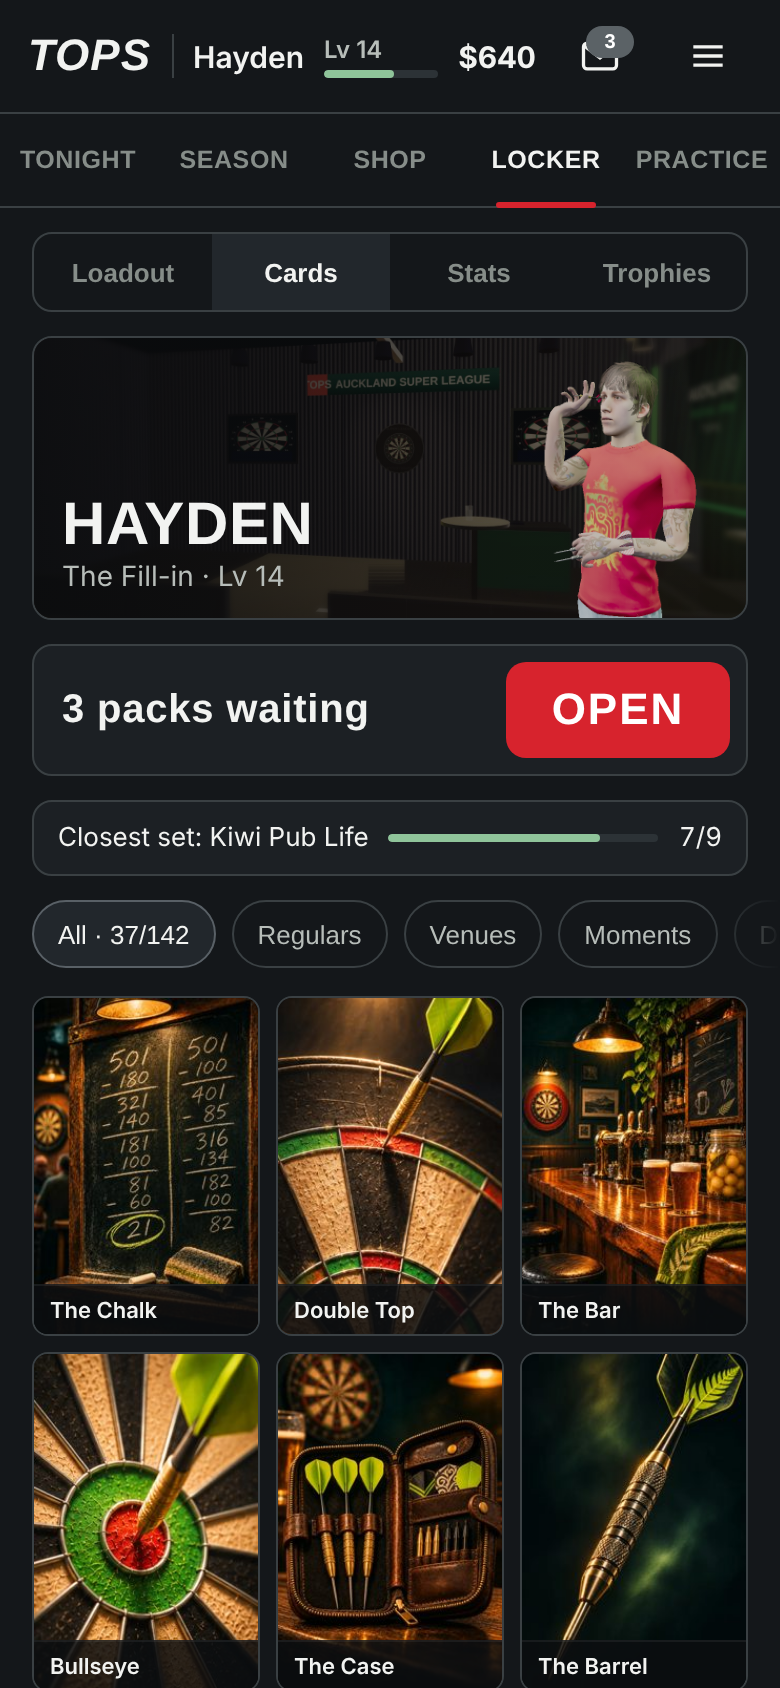
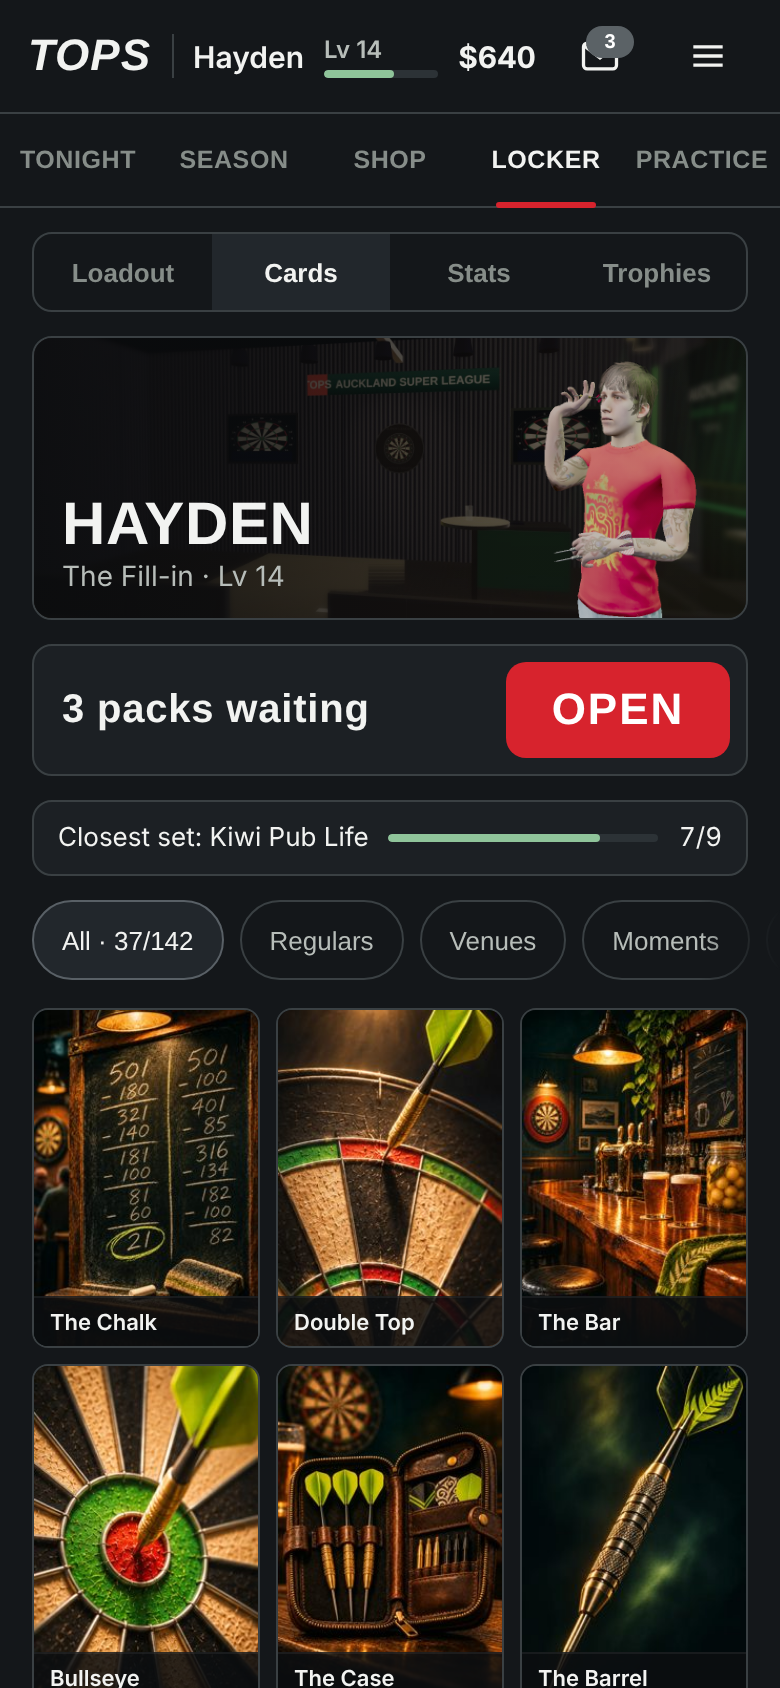
EXP-UX round 4: selected thumb always visible, every control answers (sub-tabs, menu, card filters), goal under tiles, 2px selected border, 40px chips
Claude-Session: https://claude.ai/code/session_01WmQEKYuzjKWgLqY2q8YZP3

Changed region(s): [[0.0308, 0.5237, 0.9538, 1.0]]

diff --git a/wip/ux/proto/index.html b/wip/ux/proto/index.html
@@ -82,7 +82,7 @@ button.panel{color:var(--ink);font:inherit}
 .thumbs::-webkit-scrollbar{display:none}
 .th{flex:0 0 calc((100% - 24px)/4);height:78px;scroll-snap-align:start;border:1px solid var(--line);border-radius:8px;background:var(--panel);display:grid;place-items:center;position:relative;cursor:pointer;padding:0;min-width:0}
 .th img{width:88%;height:44%;object-fit:contain;margin-bottom:16px}
-.th[aria-pressed="true"]{border-color:#fff}
+.th[aria-pressed="true"]{border:2px solid #fff;background:var(--panel2)}
 .th small{position:absolute;bottom:5px;left:0;right:0;font-size:12px;color:var(--ink2);text-align:center}
 .th.lock img{opacity:.35}
 .lockline{font-size:14px;color:var(--ink2);text-align:center;display:flex;flex-direction:column;gap:2px;align-items:center;min-height:56px;justify-content:center}
@@ -97,11 +97,12 @@ button.panel{color:var(--ink);font:inherit}
 .packs .primary{width:112px;flex:0 0 112px;height:48px}
 .chips{display:flex;gap:8px;overflow-x:auto;padding-bottom:2px;scrollbar-width:none;margin-right:-16px;padding-right:24px;-webkit-mask-image:linear-gradient(90deg,#000 calc(100% - 40px),transparent);mask-image:linear-gradient(90deg,#000 calc(100% - 40px),transparent)}
 .chips::-webkit-scrollbar{display:none}
-.chips button{flex:0 0 auto;height:34px;padding:0 12px;border-radius:17px;border:1px solid var(--line);background:none;color:var(--ink2);font-size:13px;cursor:pointer}
+.chips button{flex:0 0 auto;height:40px;padding:0 14px;border-radius:20px;border:1px solid var(--line);background:none;color:var(--ink2);font-size:13px;cursor:pointer}
 .chips button[aria-pressed="true"]{background:var(--panel2);color:var(--ink);border-color:#596066}
 .grid{display:grid;grid-template-columns:repeat(3,1fr);gap:8px}
 .card{aspect-ratio:2/3;border-radius:8px;overflow:hidden;border:1px solid var(--line);background:#101214;position:relative;max-width:100%}
 .card img{width:100%;height:100%;object-fit:cover;display:block}
+.empty{grid-column:1/-1;margin:8px 0;color:var(--ink2);font-size:13px;text-align:center}
 .card.out{display:grid;place-items:center;color:#4a5155;font-family:var(--display);font-weight:700;font-size:18px}
 .card .n{position:absolute;left:0;right:0;bottom:0;height:24px;line-height:24px;padding:0 8px;font-size:11px;font-weight:600;white-space:nowrap;overflow:hidden;text-overflow:ellipsis;background:rgba(12,14,16,.86);border-top:1px solid rgba(255,255,255,.06)}
 /* result */
@@ -145,7 +146,7 @@ button.panel{color:var(--ink);font:inherit}
     <div class="lv" id="lvBtn" role="button" tabindex="0" aria-label="Level 14, open Locker"><small id="lvTxt">Lv 14</small><div class="bar"><i id="lvBar" style="width:62%"></i></div></div>
     <span class="bank" id="bank">$640</span>
     <button class="icon" type="button" id="msgBtn" aria-label="3 new messages"><svg viewBox="0 0 24 24" fill="none" stroke="currentColor" stroke-width="1.8"><rect x="3" y="5" width="18" height="14" rx="2"/><path d="m3.5 6.5 8.5 6.5 8.5-6.5"/></svg><span class="b" id="msgN">3</span></button>
-    <button class="icon" type="button" aria-label="Menu"><svg viewBox="0 0 24 24" fill="none" stroke="currentColor" stroke-width="1.8"><path d="M4 7h16M4 12h16M4 17h16"/></svg></button>
+    <button class="icon" type="button" id="menuBtn" aria-label="Menu"><svg viewBox="0 0 24 24" fill="none" stroke="currentColor" stroke-width="1.8"><path d="M4 7h16M4 12h16M4 17h16"/></svg></button>
   </header>
   <nav class="tabs" id="tabs" role="tablist">
     <button role="tab" data-tab="tonight" aria-selected="true">Tonight</button>
@@ -170,7 +171,7 @@ button.panel{color:var(--ink);font:inherit}
       <button class="panel tile" type="button" id="moneyTile"><span class="t">Money match</span><span class="s">Back room · $100</span></button>
       <button class="panel tile" type="button" data-go="shop"><span class="t">Next dart</span><span class="s">Razor Edge · Lv 15</span><img src="img/dart_razor_t.png" alt=""></button>
     </div>
-    <div class="meta" id="tGoal" style="margin-top:auto">Goal: average 61+ → $40</div>
+    <div class="meta" id="tGoal" style="margin-top:-4px;min-height:24px">Goal: average 61+ → $40</div>
   </section>
 
   <!-- SEASON (out of this round's scope: a stub so the tab answers) -->
@@ -256,17 +257,21 @@ const DARTS=[
  {id:'asp',n:'Asp G2 24g',line:'Front-weighted, built for treble 20',lv:33,price:270,img:'dart_asp_t.png',sc:9,co:8,w:24}];
 const LV=14;
 function toast(t){const e=$('#toast');e.textContent=t;e.classList.add('on');clearTimeout(toast.t);toast.t=setTimeout(()=>e.classList.remove('on'),1800);}
+function centerThumb(){requestAnimationFrame(()=>{const t=$('#sThumbs'),q=t&&t.querySelector('[aria-pressed="true"]');if(!q||!t.clientWidth)return;t.scrollTo({left:Math.max(0,q.offsetLeft-t.offsetLeft-(t.clientWidth-q.clientWidth)/2),behavior:'instant'});});}
 function money(n){return '$'+n.toLocaleString();}
 function show(tab){
   const res=tab==='result';$('#tabs').hidden=res;
   $$('.scr').forEach(s=>s.hidden=s.dataset.scr!==tab);
   $$('#tabs button').forEach(b=>b.setAttribute('aria-selected',b.dataset.tab===tab));
   const s=$('.scr[data-scr="'+tab+'"]');if(s)s.scrollTop=0;
+  if(tab==='shop')centerThumb();
 }
 $$('#tabs button').forEach(b=>b.onclick=()=>show(b.dataset.tab));
 $$('[data-go]').forEach(b=>b.onclick=()=>show(b.dataset.go));
 $('#lvBtn').onclick=()=>show('locker');
 $('#msgBtn').onclick=()=>{$('#msgN').hidden=true;$('#msgBtn').setAttribute('aria-label','Messages');toast('Messages: Big Mal says see you on the oche. Club secretary: subs due Friday.');};
+$('#menuBtn').onclick=()=>toast('Menu: settings, how to throw, credits. Not part of this prototype.');
+$$('.sub button').forEach(b=>b.onclick=()=>{if(b.getAttribute('aria-selected')==='true')return;toast(b.textContent+' comes in the next round of the prototype.');});
 $('#moneyTile').onclick=()=>toast('Money match: best of 1 in the back room, $100 to the winner.');
 // Tonight states
 function renderTonight(){
@@ -293,7 +298,7 @@ function renderShop(){
   else if(locked)a=`<div class="lockline"><b>Unlocks at level ${d.lv} · ${money(d.price)}</b><span>You're level ${LV}</span><button class="link" type="button" data-go2="tonight">Play to reach it →</button></div>`;
   else a=`<button class="primary" type="button" id="sBuy"><b>Buy · ${money(d.price)}</b></button><div class="meta" style="min-height:20px">${money(st.bank)} → ${money(st.bank-d.price)}</div><div style="text-align:center"><button class="link" type="button" id="sTry">Try it in practice</button></div>`;
   $('#sAct').innerHTML=a;
-  $('#sThumbs').innerHTML=DARTS.map(x=>`<button class="th ${x.lv>LV&&!st.owned[x.id]?'lock':''}" type="button" data-id="${x.id}" aria-pressed="${x.id===st.sel}" aria-label="${x.n}"><img src="img/${x.img}" alt=""><small>${st.owned[x.id]?'✓ Owned':x.lv>LV?'🔒 Lv '+x.lv:money(x.price)}</small></button>`).join('');{const t=$('#sThumbs'),q=t.querySelector('[aria-pressed="true"]');if(q)t.scrollLeft=Math.max(0,q.offsetLeft-t.offsetLeft-(t.clientWidth-q.clientWidth)/2);}
+  $('#sThumbs').innerHTML=DARTS.map(x=>`<button class="th ${x.lv>LV&&!st.owned[x.id]?'lock':''}" type="button" data-id="${x.id}" aria-pressed="${x.id===st.sel}" aria-label="${x.n}"><img src="img/${x.img}" alt=""><small>${st.owned[x.id]?'✓ Owned':x.lv>LV?'🔒 Lv '+x.lv:money(x.price)}</small></button>`).join('');centerThumb();
   $$('#sThumbs .th').forEach(b=>b.onclick=()=>{st.sel=b.dataset.id;renderShop();});
   const buy=$('#sBuy');if(buy)buy.onclick=()=>{st.owned[d.id]=1;st.bank-=d.price;$('#bank').textContent=money(st.bank);toast('Bought '+d.n+'. Equipped for your next match.');renderShop();};
   const tr=$('#sTry');if(tr)tr.onclick=()=>toast('Free practice session with '+d.n+'. No XP or money from it.');
@@ -304,8 +309,10 @@ const idx=()=>DARTS.findIndex(x=>x.id===st.sel);
 $('#sPrev').onclick=()=>{st.sel=DARTS[(idx()+DARTS.length-1)%DARTS.length].id;renderShop();};
 $('#sNext').onclick=()=>{st.sel=DARTS[(idx()+1)%DARTS.length].id;renderShop();};
 // Locker cards
-const CARDS=[['chalk','The Chalk'],['db_top','Double Top'],['bar','The Bar'],['db_bull','Bullseye'],['case','The Case'],['barrel','The Barrel'],['flights','Flights'],[null,'#041'],[null,'#042']];
-function renderGrid(){$('#grid').innerHTML=CARDS.map(c=>c[0]?`<div class="card"><img src="img/card_${c[0]}.jpg" alt="${c[1]}"><span class="n">${c[1]}</span></div>`:`<div class="card out" aria-label="Not collected yet">${c[1]}</div>`).join('');}
+const CARDS=[['chalk','The Chalk','House rules'],['db_top','Double Top','Moments'],['bar','The Bar','Venues'],['db_bull','Bullseye','Moments'],['case','The Case','Kit'],['barrel','The Barrel','Kit'],['flights','Flights','Kit'],[null,'#041','Venues'],[null,'#042','Regulars']];
+let cardF='All';
+function renderGrid(){const L=CARDS.filter(c=>cardF==='All'||c[2]===cardF);$('#grid').innerHTML=L.length?L.map(c=>c[0]?`<div class="card"><img src="img/card_${c[0]}.jpg" alt="${c[1]}"><span class="n">${c[1]}</span></div>`:`<div class="card out" aria-label="Not collected yet">${c[1]}</div>`).join(''):`<p class="empty">No ${cardF.toLowerCase()} cards yet. Every pack has a chance at one.</p>`;}
+$$('.chips button').forEach(b=>b.onclick=()=>{$$('.chips button').forEach(x=>x.setAttribute('aria-pressed',x===b));cardF=b.textContent.split(' ·')[0];renderGrid();});
 function renderPacks(){const n=st.packs;$('#packTxt').textContent=n?n+(n===1?' pack waiting':' packs waiting'):'Win matches to earn packs';$('#openPack').hidden=!n;}
 $('#openPack').onclick=()=>{st.packs--;const c=CARDS.find(x=>!x[0]);if(c){c[0]='kw_fishchips';c[1]='Fish & Chips';}renderGrid();renderPacks();toast('New card: Fish & Chips (Kiwi Pub Life 8/9)');};
 // Result

diff --git a/wip/ux/proto/critique_r3.md b/wip/ux/proto/critique_r3.md
@@ -1,0 +1,38 @@
+## Design Critique: TOPS career screens, prototype round 3 (390 × 844, game renders only)
+
+### Overall Impression
+Reads as one product now: one header, one tab rail, one panel spec, red only on the primary and the active tab. The biggest remaining weakness is not layout but the characters: our rigs are plain next to the UI, and Big Mal's model doesn't look like Big Mal.
+
+### Usability
+| Finding | Severity | Recommendation |
+|---|---|---|
+| Tonight hero says "VS BIG MAL" over a slim young figure | 🟡 Moderate | Character roster call (Needs a call): give Big Mal a heavier model or a beard/build variant; UI can't fix it |
+| Shop thumbnails: 4 of 6 visible, rest by arrows/swipe | 🟢 Minor | Fine; scroll-snap + centred selection keeps the choice visible |
+| Locker chips overflow | 🟢 Minor | Fixed: edge fade + partly visible next chip |
+| Result: "Open" pack is a second button | 🟢 Minor | Ghost style keeps CONTINUE the single primary |
+
+### Visual Hierarchy
+- **First look:** Tonight → hero then WALK ON; Shop → the dart (now large, angled) then BUY; Cards → OPEN then the grid; Result → WON 2–1 lockup, then +$55.
+- **Reading flow:** top to bottom on every screen, one primary each.
+- **Emphasis:** right. Result now says victory first (opponent dimmed, score on its own dark column).
+
+### Consistency
+| Element | Issue | Recommendation |
+|---|---|---|
+| Panels | All 1px #3A4043, r10 | — |
+| Type | Metadata floor 13 px; header Lv 12 px; tabs 12.5 px | — |
+| Imagery | Venues and darts read as one world; figures are flatter than the rooms | Rim light / grade pass on hero portraits (renders.js) |
+
+### Accessibility
+- **Contrast:** body #f2f3f1 and #b7bdb9 on #1c2024 pass 4.5:1; #868d89 meta passes for 13 px at ~5:1.
+- **Touch targets:** primaries 56 / 48 px; thumbs 78 px; chips 34 px (below 44, but with 8 px gaps; P2).
+- **Text:** nothing under 11 px; card captions 11 px on a solid strip.
+
+### What Works Well
+- Real game imagery inside calm panels: the Club still and the dart renders sell the world better than generated art.
+- One action per screen survived every state (first match, broke, locked dart).
+
+### Priority Recommendations
+1. **Big Mal's model** — identity mismatch on the main screen; a roster call for Career/character owners.
+2. **Hero portrait grade** — add rim light and a slight contrast lift to the two hero renders so figures sit in the room.
+3. **Chip height 34 → 40 px** — closer to the 44 px target without crowding.
